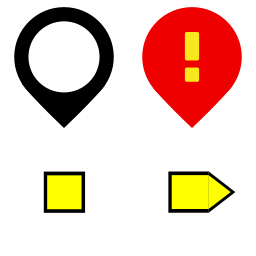
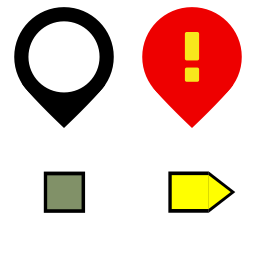
fix missing stationary vehicles

Changed region(s): [[0.1562, 0.6562, 0.3438, 0.8438]]

diff --git a/src/layers/moving-icons/moving-icon-layer.ts b/src/layers/moving-icons/moving-icon-layer.ts
@@ -1,26 +1,6 @@
-// Copyright (c) 2015 - 2017 Uber Technologies, Inc.
-//
-// Permission is hereby granted, free of charge, to any person obtaining a copy
-// of this software and associated documentation files (the "Software"), to deal
-// in the Software without restriction, including without limitation the rights
-// to use, copy, modify, merge, publish, distribute, sublicense, and/or sell
-// copies of the Software, and to permit persons to whom the Software is
-// furnished to do so, subject to the following conditions:
-//
-// The above copyright notice and this permission notice shall be included in
-// all copies or substantial portions of the Software.
-//
-// THE SOFTWARE IS PROVIDED "AS IS", WITHOUT WARRANTY OF ANY KIND, EXPRESS OR
-// IMPLIED, INCLUDING BUT NOT LIMITED TO THE WARRANTIES OF MERCHANTABILITY,
-// FITNESS FOR A PARTICULAR PURPOSE AND NONINFRINGEMENT. IN NO EVENT SHALL THE
-// AUTHORS OR COPYRIGHT HOLDERS BE LIABLE FOR ANY CLAIM, DAMAGES OR OTHER
-// LIABILITY, WHETHER IN AN ACTION OF CONTRACT, TORT OR OTHERWISE, ARISING FROM,
-// OUT OF OR IN CONNECTION WITH THE SOFTWARE OR THE USE OR OTHER DEALINGS IN
-// THE SOFTWARE.
 import { Layer, project32, picking } from '@deck.gl/core'
 import GL from '@luma.gl/constants'
 import { Model, Geometry } from '@luma.gl/core'
-import PathTesselator from './path-tesselator'
 
 import IconManager from './icon-manager'
 
@@ -63,14 +43,16 @@ const defaultProps = {
   noAlloc: true,
   iconStill: { type: 'object', value: null },
 
-  // getPosition: { type: 'accessor', value: (x: any) => x.position },
   getIcon: { type: 'accessor', value: (x: any) => x.icon },
   getColor: { type: 'accessor', value: DEFAULT_COLOR },
   getSize: { type: 'accessor', value: 1 },
   getAngle: { type: 'accessor', value: 0 },
   getPixelOffset: { type: 'accessor', value: [0, 0] },
-  getPath: { type: 'accessor', value: null },
-  getTimestamps: { type: 'accessor', value: null },
+
+  getPathStart: { type: 'accessor', value: null },
+  getPathEnd: { type: 'accessor', value: null },
+  getTimeStart: { type: 'accessor', value: null },
+  getTimeEnd: { type: 'accessor', value: null },
 
   currentTime: { type: 'number', value: 0 },
 }
@@ -86,24 +68,24 @@ export default class IconLayer extends Layer {
     }
 
     const attributeManager = this.getAttributeManager()
+
     /* eslint-disable max-len */
     attributeManager.addInstanced({
       instanceTimestamps: {
         size: 1,
-        accessor: 'getTimestamps',
-        shaderAttributes: {
-          instanceTimestamps: { vertexOffset: 0 },
-          instanceTimestampsNext: { vertexOffset: 1 },
-        },
+        accessor: 'getTimeStart',
       },
-      positions: {
-        size: 3,
-        accessor: 'getPath',
-        update: this.calculatePositions,
-        shaderAttributes: {
-          instanceStartPositions: { vertexOffset: 0 },
-          instanceEndPositions: { vertexOffset: 1 },
-        },
+      instanceTimestampsNext: {
+        size: 1,
+        accessor: 'getTimeEnd',
+      },
+      instanceStartPositions: {
+        size: 2,
+        accessor: 'getPathStart',
+      },
+      instanceEndPositions: {
+        size: 2,
+        accessor: 'getPathEnd',
       },
       instanceSizes: {
         size: 1,
@@ -133,14 +115,8 @@ export default class IconLayer extends Layer {
         accessor: 'getPixelOffset',
       },
     })
-    /* eslint-enable max-len */
-
-    this.setState({
-      pathTesselator: new PathTesselator({}),
-    })
   }
 
-  /* eslint-disable max-statements, complexity */
   updateState({ oldProps, props, changeFlags }: any) {
     super.updateState({ props, oldProps, changeFlags })
 
@@ -174,27 +150,6 @@ export default class IconLayer extends Layer {
       (changeFlags.updateTriggersChanged &&
         (changeFlags.updateTriggersChanged.all || changeFlags.updateTriggersChanged.getIcon))
     ) {
-      const { pathTesselator } = this.state
-      const buffers = data.attributes || {}
-
-      pathTesselator.updateGeometry({
-        data: props.data,
-        geometryBuffer: buffers.getPath,
-        buffers,
-        normalize: !props._pathType,
-        loop: props._pathType === 'loop',
-        getGeometry: props.getPath,
-        positionFormat: props.positionFormat,
-        wrapLongitude: props.wrapLongitude,
-        // TODO - move the flag out of the viewport
-        resolution: this.context.viewport.resolution,
-        dataChanged: changeFlags.dataChanged,
-      })
-      this.setState({
-        numInstances: pathTesselator.instanceCount,
-        startIndices: pathTesselator.vertexStarts,
-      })
-
       iconManager.setProps({ data, getIcon })
       iconMappingChanged = true
     }
@@ -286,13 +241,6 @@ export default class IconLayer extends Layer {
         isInstanced: true,
       })
     )
-  }
-
-  calculatePositions(attribute: any) {
-    const { pathTesselator } = this.state
-
-    attribute.startIndices = pathTesselator.vertexStarts
-    attribute.value = pathTesselator.attributes['positions']
   }
 
   _onUpdate() {

diff --git a/src/plugins/vehicle-animation/VehicleAnimation.vue b/src/plugins/vehicle-animation/VehicleAnimation.vue
@@ -175,15 +175,15 @@ class VehicleAnimation extends Vue {
   private timeStart = 0
   private timeEnd = 86400
 
-  private traces!: crossfilter.Crossfilter<any>
+  private traces: crossfilter.Crossfilter<any> = crossfilter([])
   private traceStart!: crossfilter.Dimension<any, any>
   private traceEnd!: crossfilter.Dimension<any, any>
 
-  private paths!: crossfilter.Crossfilter<any>
+  private paths: crossfilter.Crossfilter<any> = crossfilter([])
   private pathStart!: crossfilter.Dimension<any, any>
   private pathEnd!: crossfilter.Dimension<any, any>
 
-  private requests!: crossfilter.Crossfilter<any>
+  private requests: crossfilter.Crossfilter<any> = crossfilter([])
   private requestStart!: crossfilter.Dimension<any, any>
   private requestEnd!: crossfilter.Dimension<any, any>
 

diff --git a/src/plugins/vehicle-animation/TripViz.tsx b/src/plugins/vehicle-animation/TripViz.tsx
@@ -110,8 +110,6 @@ export default function Component(props: {
 
   const layers: any = []
 
-  const allLayers = ['Vehicles', 'Routes', 'DRT Requests']
-
   if (settingsShowLayers['Routen'])
     layers.push(
       //@ts-ignore:
@@ -142,8 +140,10 @@ export default function Component(props: {
       new MovingIconLayer({
         id: 'Vehicles',
         data: paths,
-        getPath: (d: any) => [d.p0, d.p1],
-        getTimestamps: (d: any) => [d.t0, d.t1],
+        getPathStart: (d: any) => d.p0,
+        getPathEnd: (d: any) => d.p1,
+        getTimeStart: (d: any) => d.t0,
+        getTimeEnd: (d: any) => d.t1,
         getIcon: (d: any) => 'vehicle',
         iconMoving: 'vehicle',
         iconStill: 'diamond',

diff --git a/src/components/CollapsiblePanel.vue b/src/components/CollapsiblePanel.vue
@@ -69,7 +69,7 @@ export default class VueComponent extends Vue {
 }
 
 .xbutton:hover {
-  color: #666;
+  color: yellow;
 }
 
 @media only screen and (max-width: 640px) {
